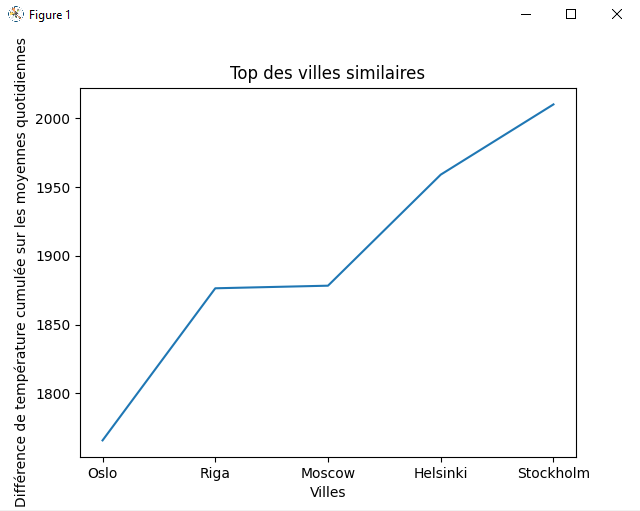
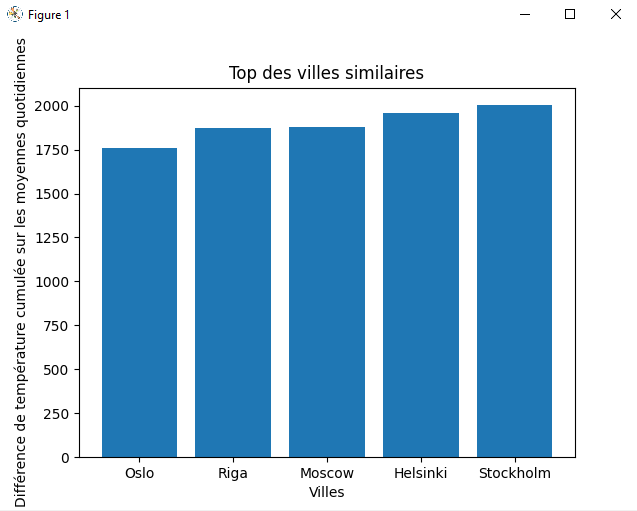
Mise à jour du README

diff --git a/README.md b/README.md
@@ -156,17 +156,18 @@ winnersTopValues = dict(sorted(winnersTopValues.items(), key=lambda item: item[1
 
 On obtient ensuite un graphique par méthode de calcul. Plus le score est faible, plus il est probable que la ville soit la bonne.
 
-Comparaison des moyennes mensuelles |  Comparaison des écart-types mensuels |  Comparaison des moyennes quotidiennes 
-|:-------------------------:|:-----------:|:-----------:|
-| Gagnant : Moscou  |  Gagnant : Oslo |  Gagnant : Oslo|
-|![](img/top_avg_month.png)  |  ![](img/top_std_month.png) |  ![](img/top_avg_day.png) |
+Comparaison des moyennes mensuelles |  Comparaison des écart-types mensuels |  Comparaison des moyennes quotidiennes | Comparaison des écart-types glissants
+|:-------------------------:|:-----------:|:-----------:|:-----------:|
+| Gagnant : Moscou  |  Gagnant : Oslo |  Gagnant : Oslo| Gagnant : Riga|
+|![](img/top_avg_month.png)  |  ![](img/top_std_month.png) |  ![](img/top_avg_day.png) | ![](img/top_sliding_std_day.png) |
 
 
-Affichage des 3 top 1 :
+Affichage des 4 top 1 :
 
 ```
 # Affichage de la ville gagnante en fonction de la méthode de calcul
 print('Comparaison des moyennes mensuelles : '+ list(winnersTopAvg.keys())[0])
 print('Comparaison des écart-types mensuels : '+ list(winnersTopStd.keys())[0])
 print('Comparaison des moyennes quotidiennes : '+ list(winnersTopValues.keys())[0])
+print('Comparaison des écart-types glissants : '+ list(winnersTopStdSlide.keys())[0])
 ```
